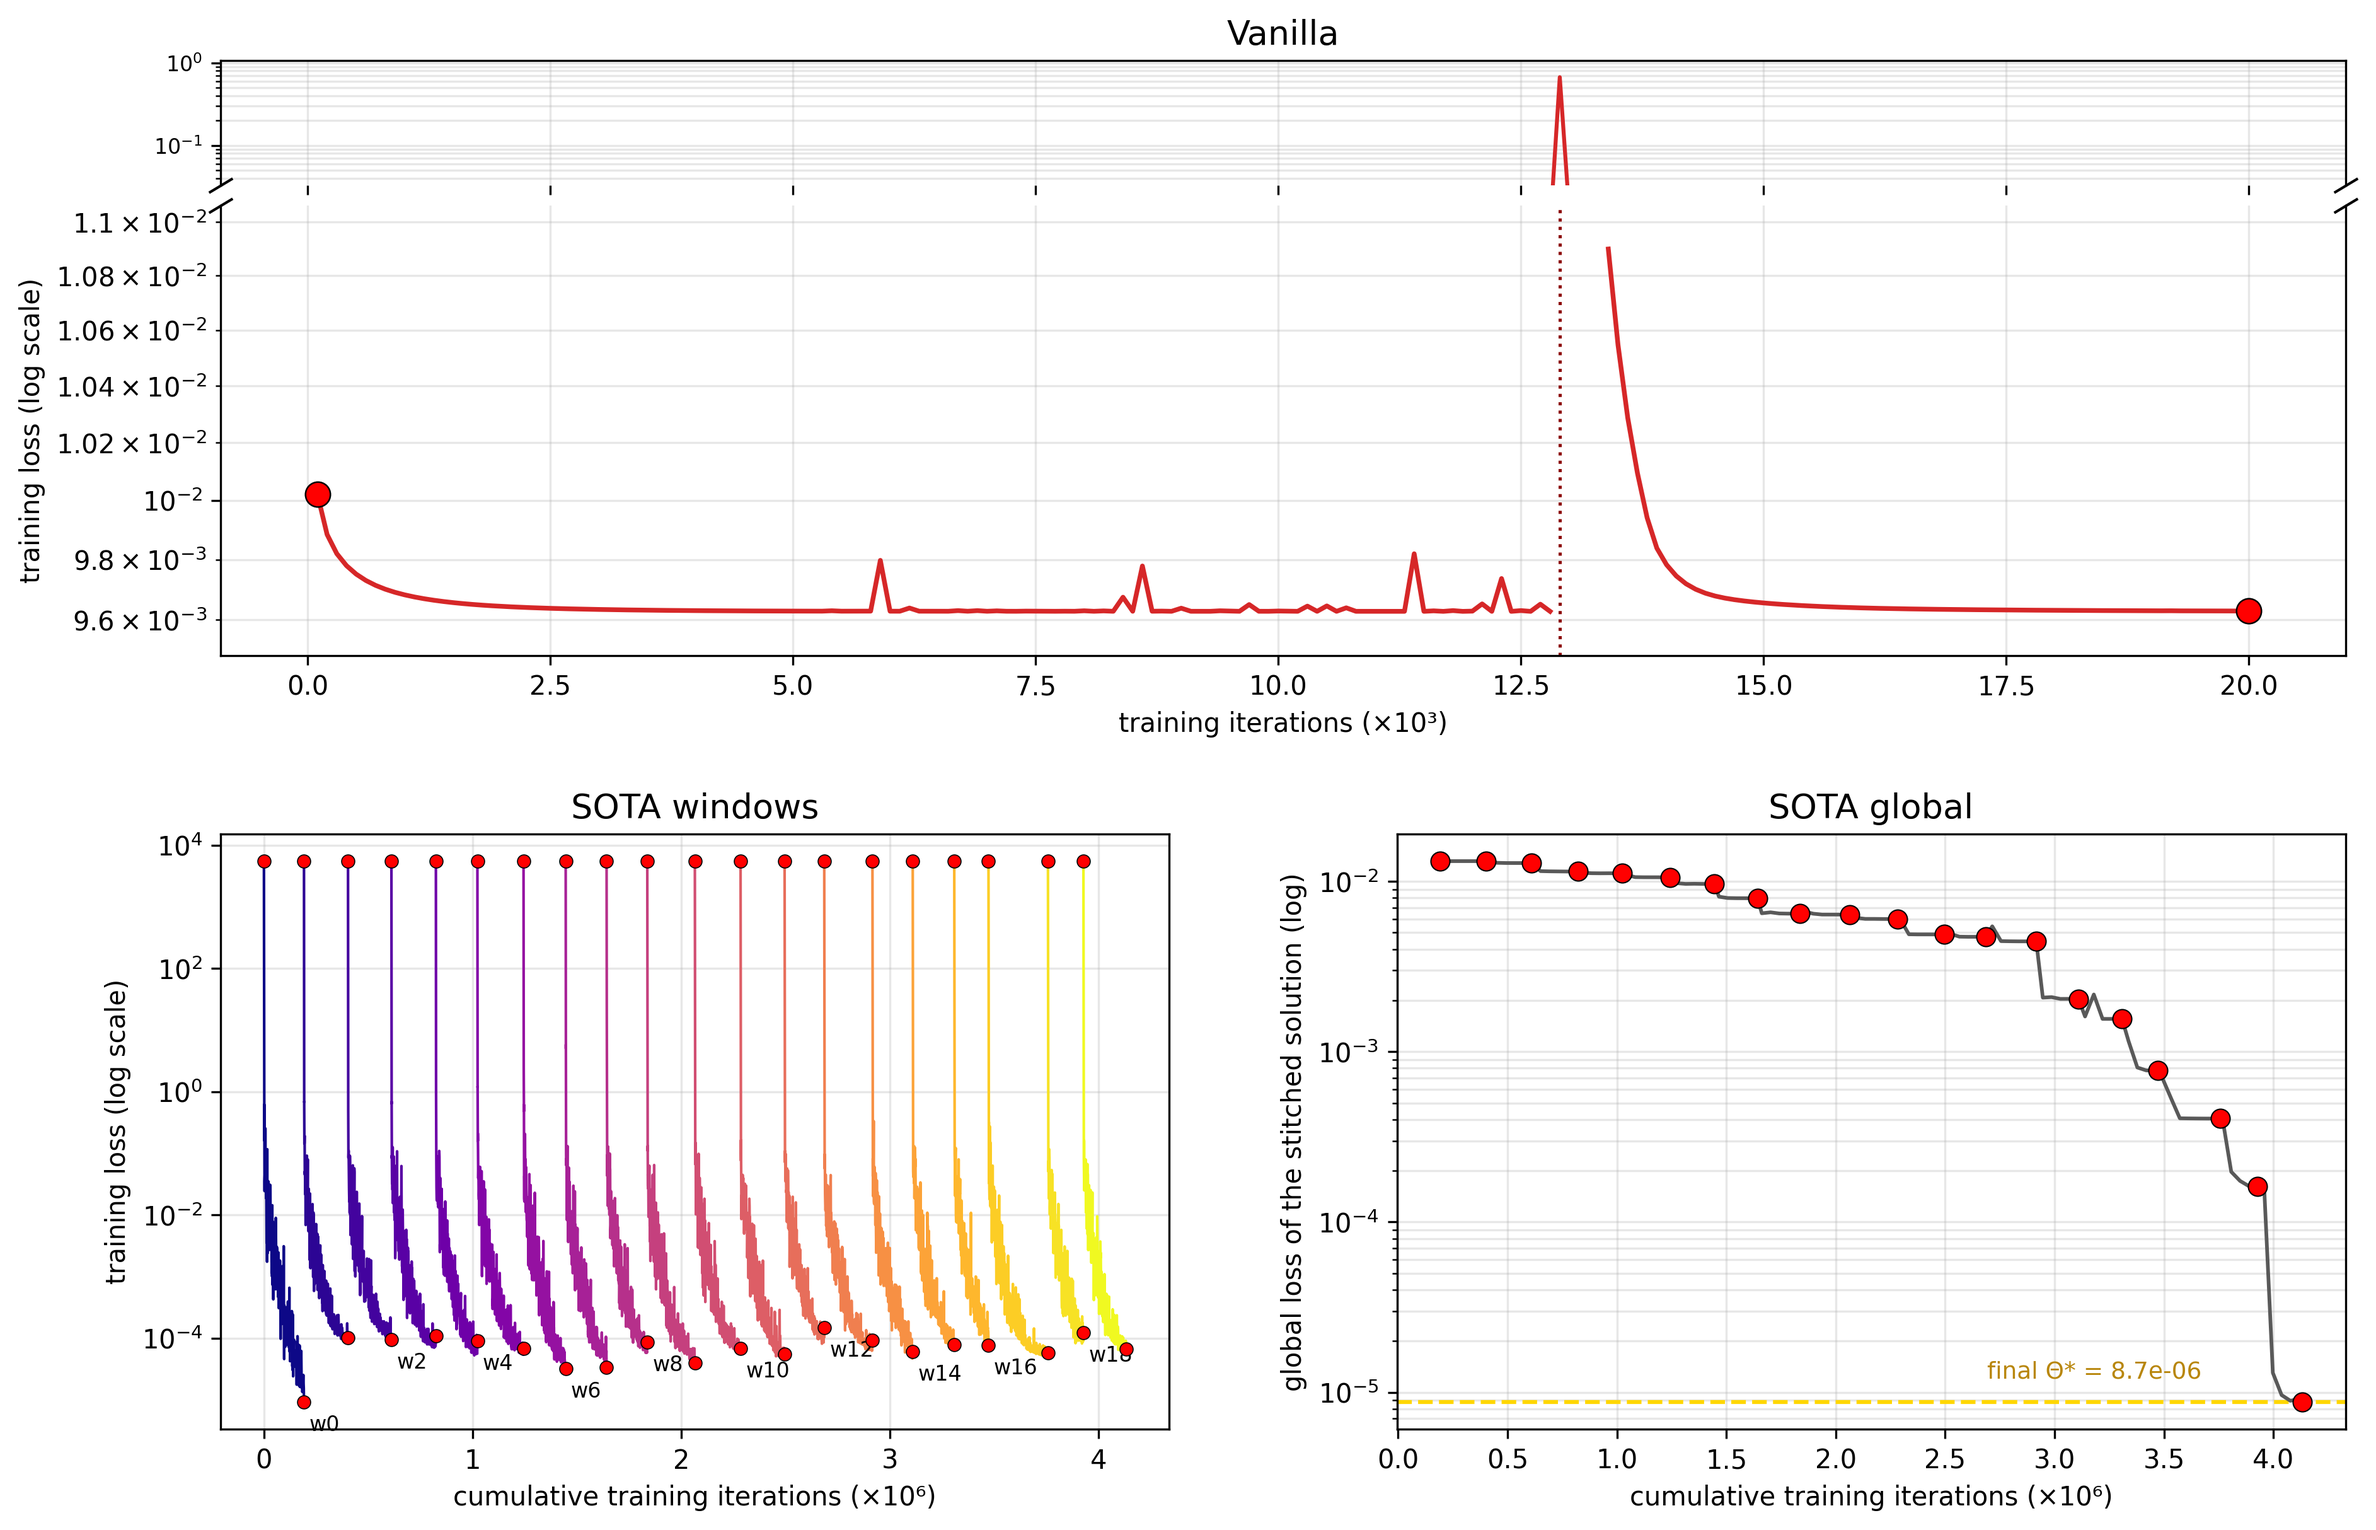
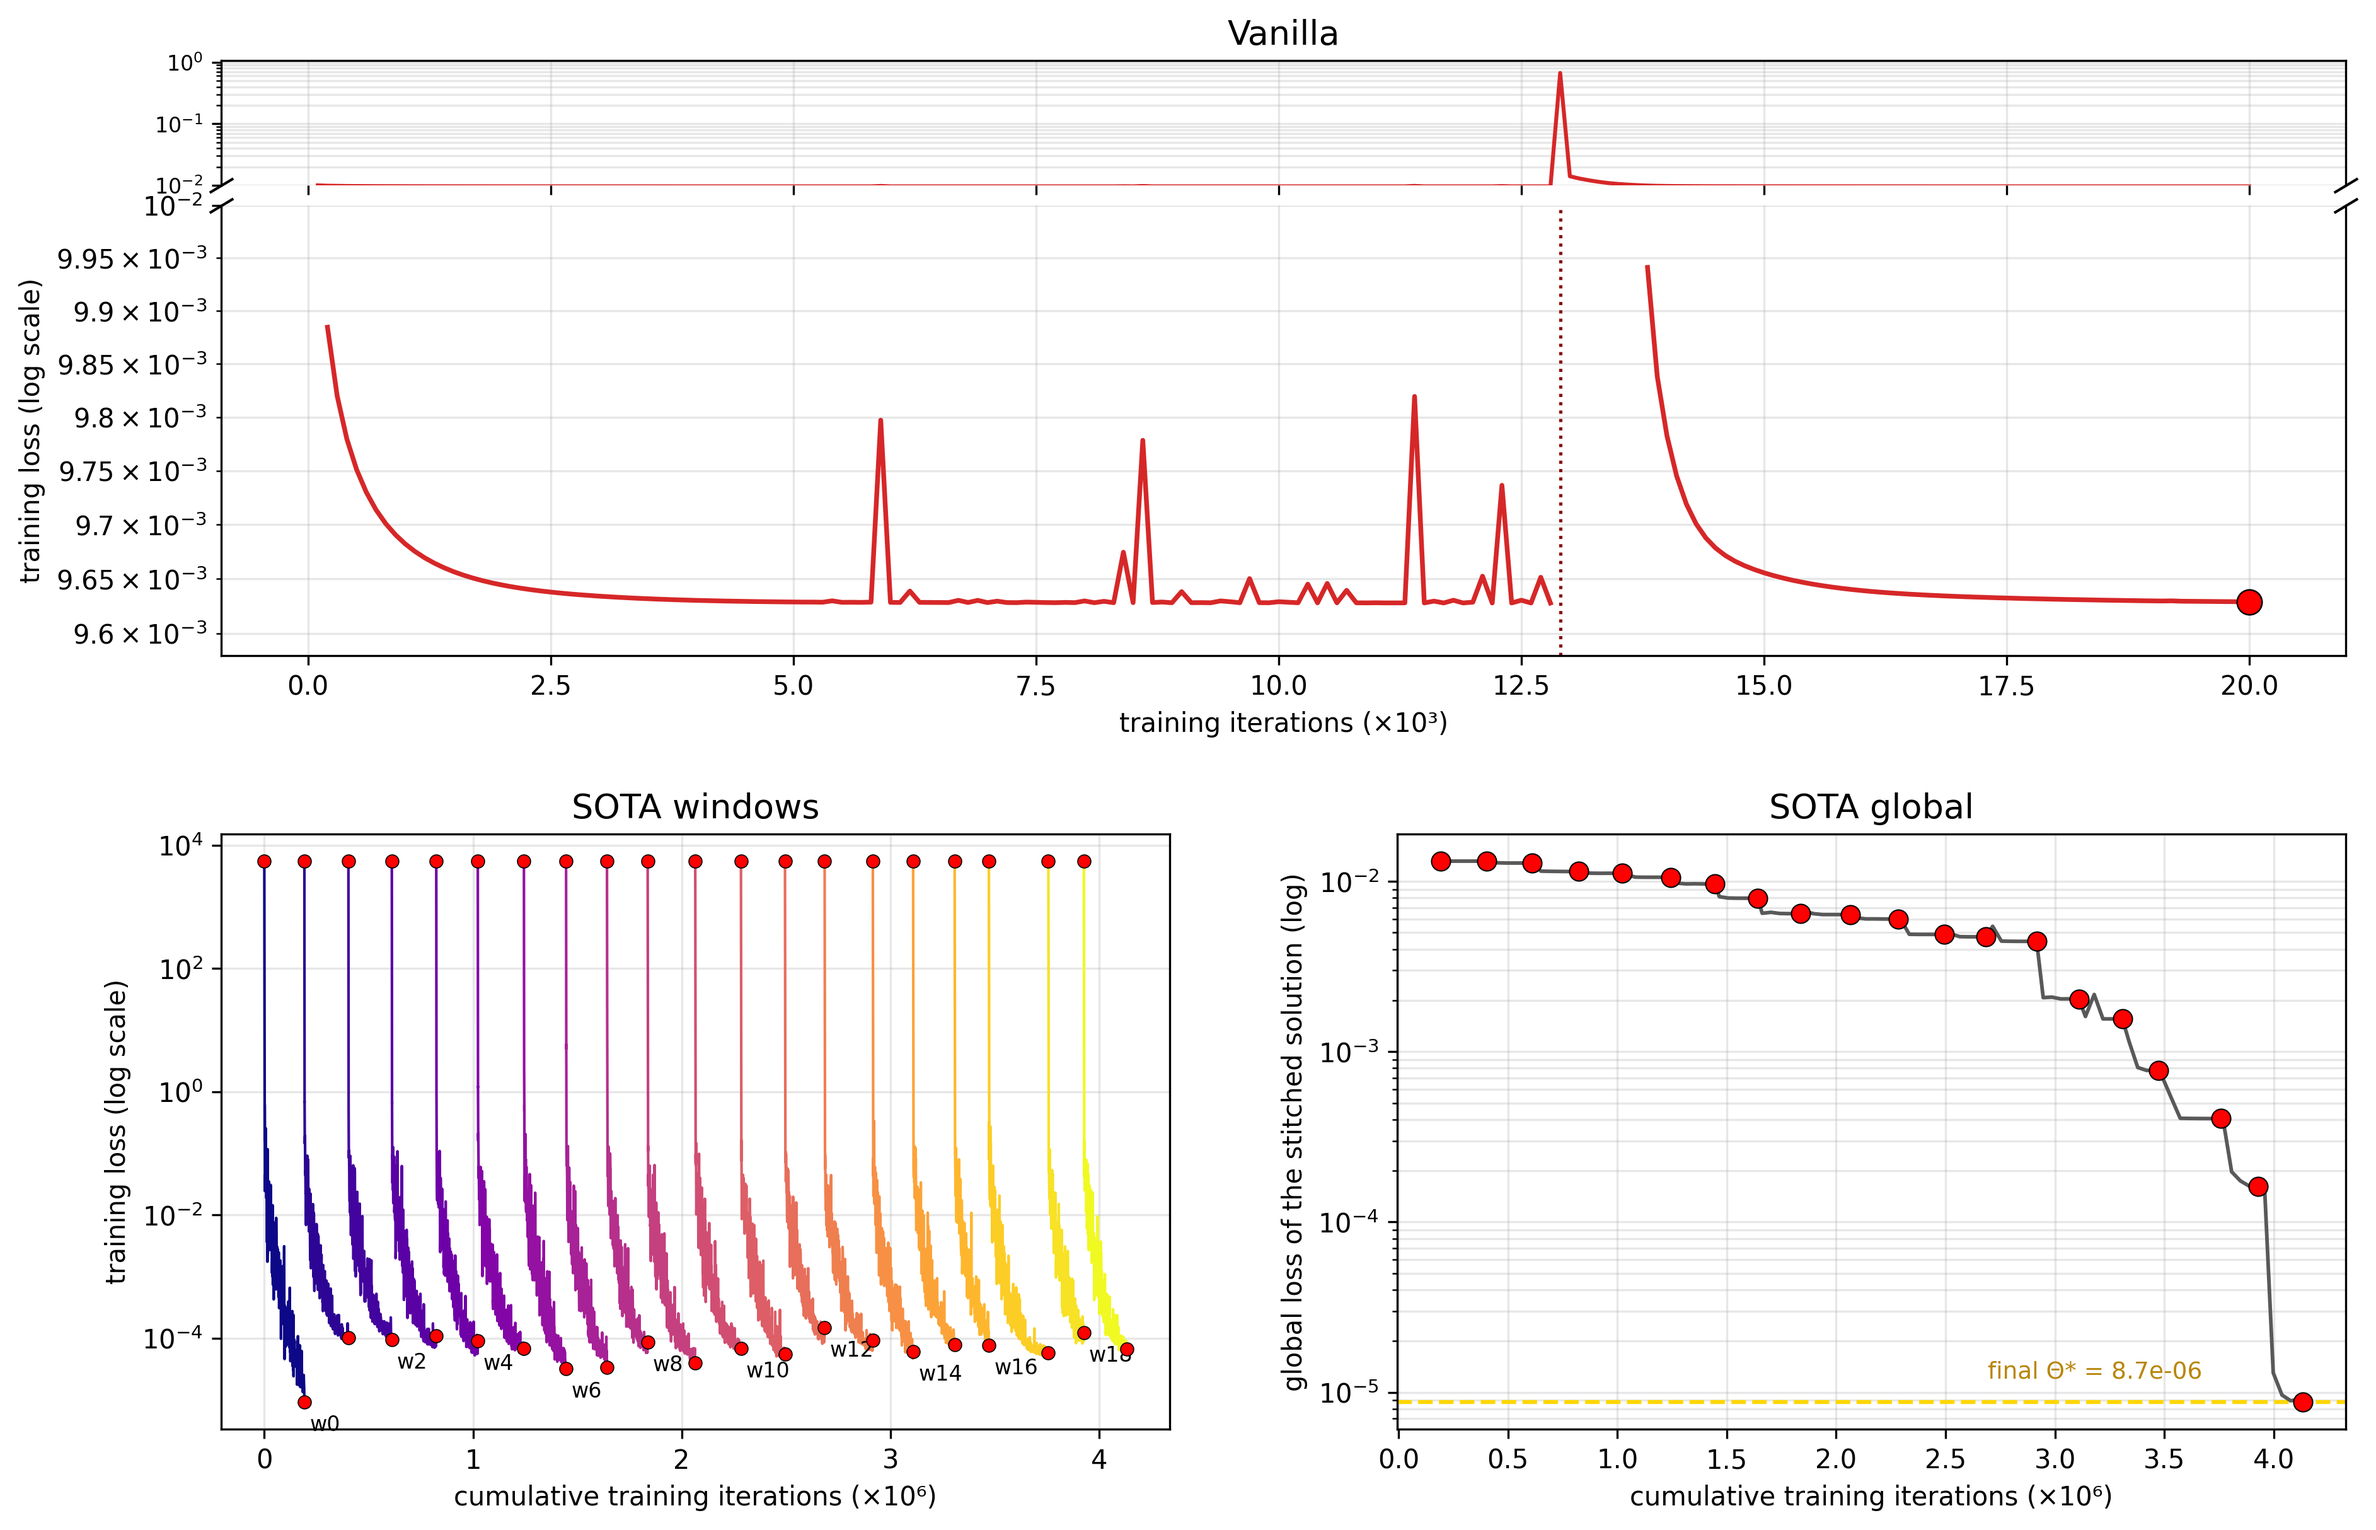
fig32 GS: cut the broken axis at 1e-2 so the pre/post-spike dynamics resolve (bands meet at the cut, nothing hidden); wire the cut as the GS default

diff --git a/analysis/plot_loss_traces.py b/analysis/plot_loss_traces.py
@@ -25,12 +25,15 @@ from landscape_full_training import CFG  # noqa: E402
 OUT = "analysis/report_figs"
 BASE = {"ks": "runs/07.18-13.19.39-baseline-chaotic/0-0",
         "gs": "runs/07.18-13.19.39-baseline-chaotic/1-0"}
+DEFAULT_CUT = {"gs": 1e-2}      # split the GS broken axis at 1e-2 (reproduces the figure)
 
 
 def main():
     ap = argparse.ArgumentParser()
     ap.add_argument("--case", choices=["ks", "gs"], required=True)
     ap.add_argument("--dpi", type=int, default=300)
+    ap.add_argument("--cut", type=float, default=None,
+                    help="split value for the broken y-axis (default 1.15x median)")
     args = ap.parse_args()
     cfg = CFG[args.case]
     N = cfg["n_win"]
@@ -45,7 +48,8 @@ def main():
     med = float(np.median(L))
     i_sp = int(np.argmax(L))
     spike = L[i_sp] > 5 * med
-    core = L[L < 1.15 * med]                      # the band the curve really lives in
+    cut = args.cut or DEFAULT_CUT.get(args.case) or 1.15 * med   # broken-axis split
+    core = L[L <= cut]                            # the band the curve really lives in
 
     fig = plt.figure(figsize=(14.5, 9.4))
     outer = gridspec.GridSpec(2, 1, height_ratios=[1.0, 1.0], hspace=0.30)
@@ -56,16 +60,16 @@ def main():
         ax_t = fig.add_subplot(top[0])
         ax = fig.add_subplot(top[1], sharex=ax_t)
         ax_t.semilogy(st_v, L, "-", color="tab:red", lw=1.5)
-        ax_t.set_ylim(core.max() * 3, L[i_sp] * 1.6)
+        ax_t.set_ylim(cut, L[i_sp] * 1.6)     # bands meet at `cut`: nothing is hidden
         ax_t.spines["bottom"].set_visible(False)
         ax_t.tick_params(labelbottom=False, labelsize=8)
         ax_t.grid(alpha=0.3, which="both")
         ax_t.set_title("Vanilla", fontsize=13)
         Lm = L.copy()
-        Lm[L > 1.15 * med] = np.nan               # excise spike + its upper recovery
+        Lm[L > cut] = np.nan                      # shown in the band above instead
         ax.semilogy(st_v, Lm, "-", color="tab:red", lw=1.8)
         ax.axvline(st_v[i_sp], color="darkred", ls=":", lw=1.2)
-        ax.set_ylim(core.min() * 0.985, core.max() * 1.015)
+        ax.set_ylim(core.min() * 0.995, cut)
         ax.spines["top"].set_visible(False)
         kw = dict(marker=[(-1, -0.6), (1, 0.6)], markersize=9, linestyle="none",
                   color="k", mec="k", mew=1, clip_on=False)

diff --git a/analysis/REPORT.md b/analysis/REPORT.md
@@ -200,8 +200,11 @@ Three results come out of this construction, all measured:
 ![loss traces — KS](report_figs/fig32_loss_traces_ks.png)
 ![loss traces — GS](report_figs/fig32_loss_traces_gs.png)
 *Top — **Vanilla**: its single loss curve over the whole run (on GS the panel uses a
-broken y-axis: the narrow top band isolates one transient spike at iteration 12,900 so
-the stretched bottom band can show the actual dynamics before and after it). Bottom
+broken y-axis split at 1e-2: the narrow top band isolates one transient spike at
+iteration 12,900, the stretched bottom band resolves the real dynamics on either side of
+it — the initial decay to the 9.63e-3 plateau, distinct bumps at ~5.9k, ~8.5k, ~11.4k and
+~12.3k iterations, and after the spike a recovery decay back to exactly the same
+plateau; the two bands meet at the cut, so nothing is hidden). Bottom
 left — **SOTA windows**: the causal run's loss per time window, chained, red = window
 edges. Bottom right — **SOTA global**: the same run measured by the single global
 objective of the stitched solution, dropping one step per completed window down to Θ\*.
